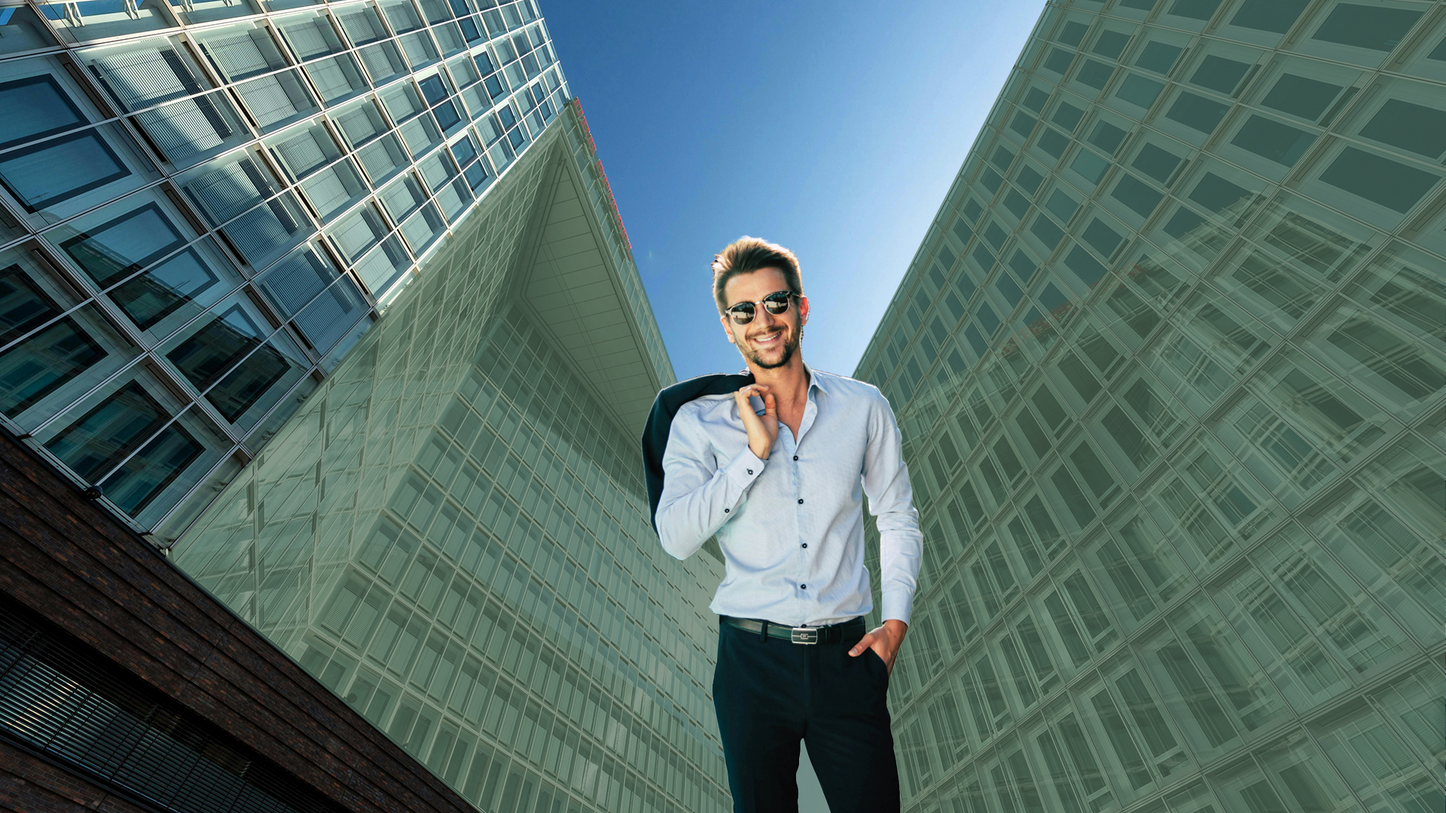
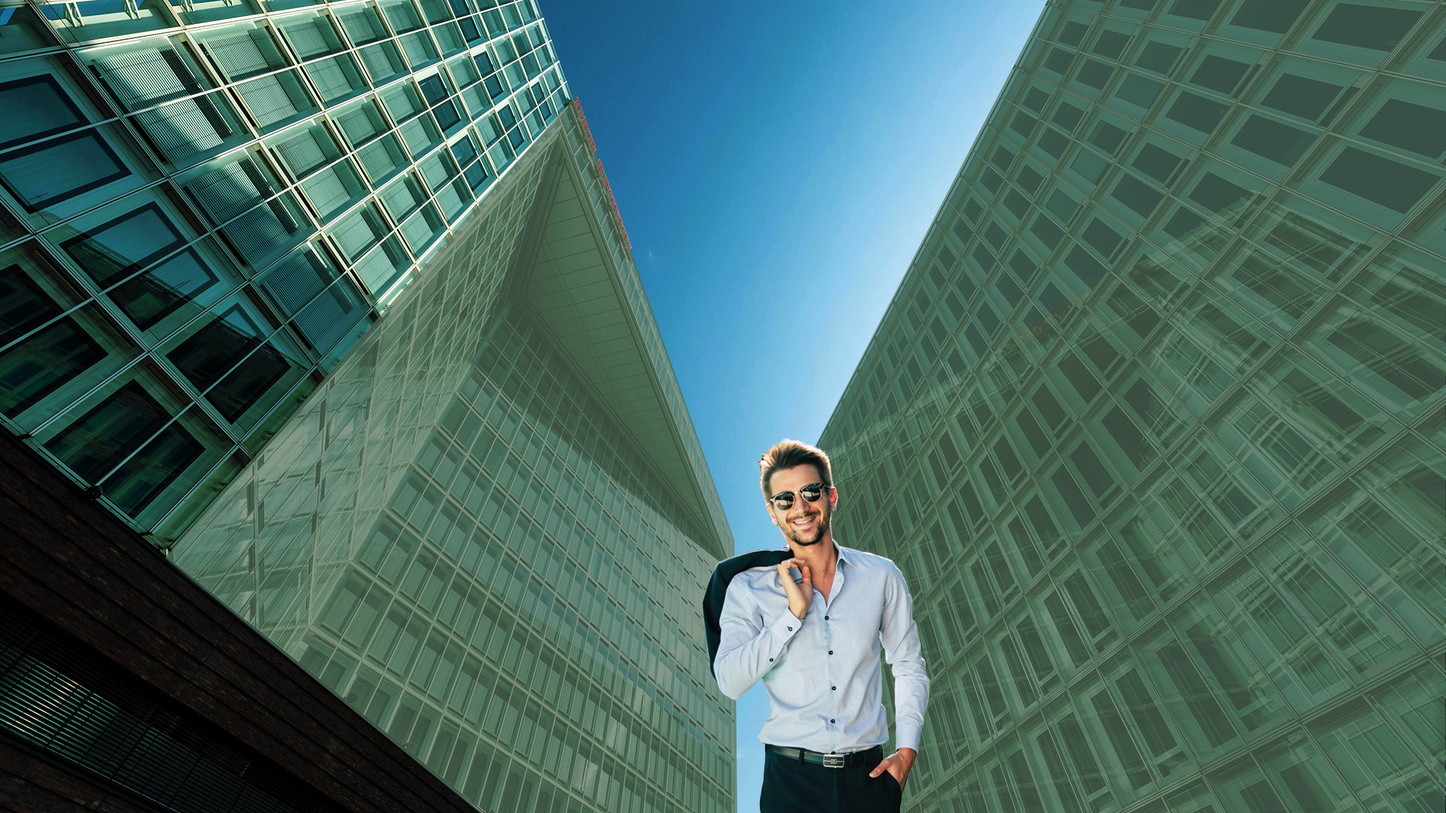
Continuado ajustes na home

diff --git a/style.css b/style.css
@@ -16,7 +16,7 @@
 }
 
 .home {
-  background-image: url(assets/bg-2.png);
+  background-image: url(assets/bg-desktop.png);
   background-repeat: no-repeat;
   background-position: center center;
   background-size: cover;
@@ -48,9 +48,8 @@ header img {
   letter-spacing: 2px;
   color: var(--Seasalt);
   font-weight: 700;
-  width: 280px;
-  padding-top: 50px;
-  padding-left: 50px;
+  width: 200px;
+  padding-top: 100px;
 }
 
 .container-home {
@@ -63,6 +62,17 @@ header img {
   gap: 90px;
 }
 
+.content-home {
+  display: flex;
+  flex-direction: row;
+  flex-wrap: wrap;
+  justify-content: center;
+  gap: 40px;
+  padding-left: 30px;
+  padding-right: 30px;
+  /* gap: calc(40vh - 120px); */
+}
+
 .home-button {
   display: flex;
   align-items: center;
@@ -71,9 +81,10 @@ header img {
   height: 50px;
   background-color: var(--PrussianBlue);
   border-radius: 5px;
-  margin-left: 70px;
+  margin-top: 100px;
+  /* margin-left: 70px;
   position: absolute;
-  bottom: 120px;
+  bottom: 120px; */
 }
 
 .home-button a {

diff --git a/index.html b/index.html
@@ -19,12 +19,16 @@
         <img src="assets/Logo.png" alt="" />
         <h1>Gabriel Almeida<br />Imóveis</h1>
       </header>
-      <p class="title-home">O imóvel ideal começa com uma escolha confiável</p>
-      <button class="home-button">
-        <a href="https://www.whatsapp.com/?lang=pt_BR" target="_blank"
-          >Agende uma Consultoria</a
-        >
-      </button>
+      <div class="content-home">
+        <p class="title-home">
+          O imóvel ideal começa com uma escolha confiável
+        </p>
+        <button class="home-button">
+          <a href="https://www.whatsapp.com/?lang=pt_BR" target="_blank"
+            >Agende uma Consultoria</a
+          >
+        </button>
+      </div>
     </section>
     <section class="about">
       <h2 id="title-about">
